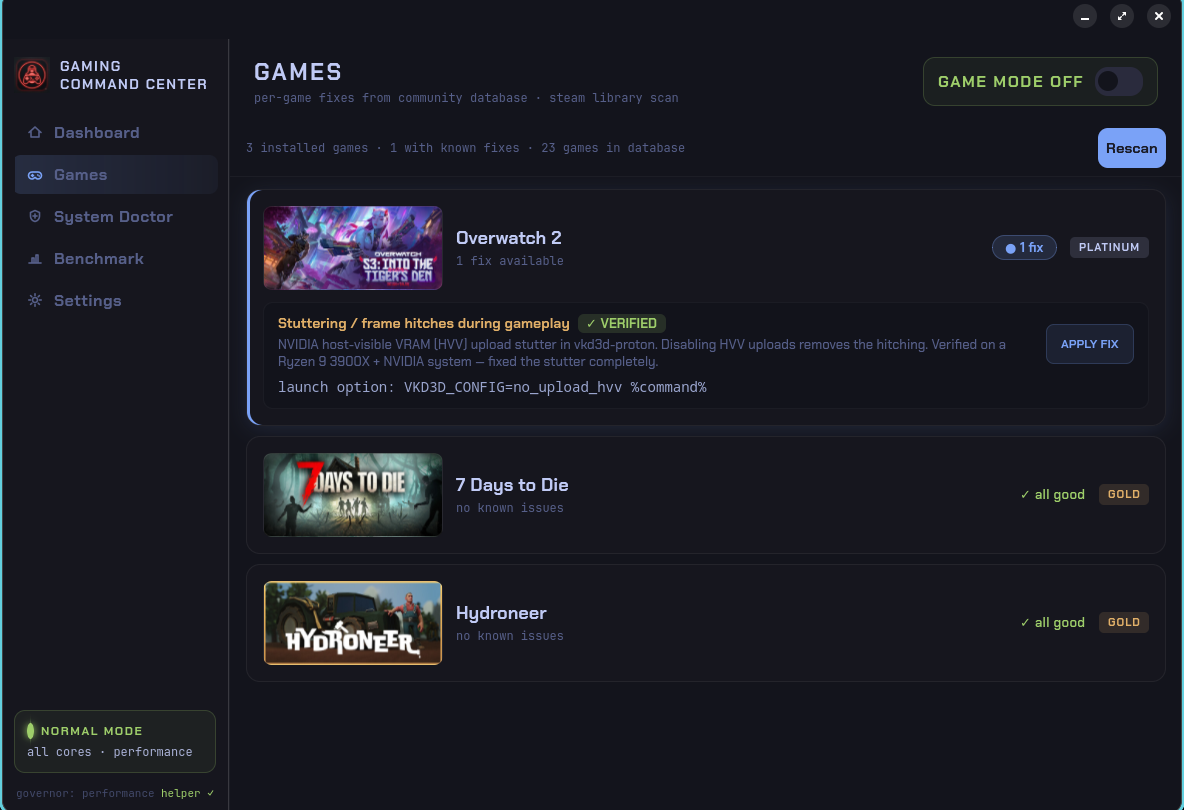
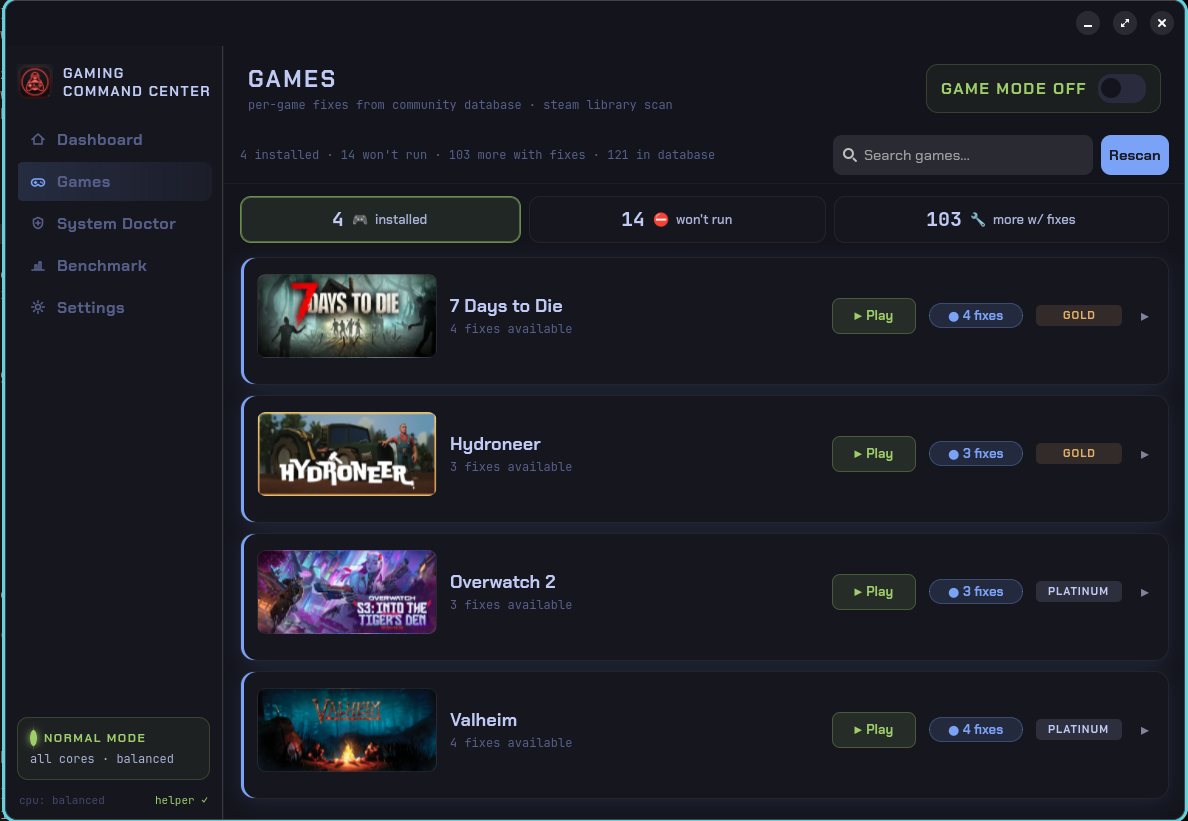
Marketing: tighten r/linux_gaming post + refresh games screenshot
Shorten the reddit draft to a scannable pitch, lead install with the AUR
(now live), fix the DB count to 121 (matches the updated Games screenshot),
and move GPU overclocking to the roadmap (not shipped in v0.1.5).

diff --git a/reddit-post.md b/reddit-post.md
@@ -1,85 +1,36 @@
 # Reddit r/linux_gaming Post Draft
 
+> Post as a text post. **Attach the 4 screenshots** (dashboard, system-doctor,
+> games, benchmark) from `assets/screenshots/`. Reply to early comments fast.
+
 ## Title (max 300 chars)
 
-Gaming Command Center — open-source Linux app for GPU overclocking, CPU optimization, one-click game fixes, and system diagnostics
+Gaming Command Center — an open-source app that scans & fixes common Linux gaming issues, applies per-game Proton fixes, and does Ryzen CCD "Game Mode". Now on the AUR.
+
+<!-- Alt, shorter:
+I made an open-source Linux gaming tuning app — system doctor, per-game Proton fixes, Ryzen CCD game mode. Now on the AUR. -->
 
 ## Body
 
-Hey everyone,
+Tired of hunting through ProtonDB, Reddit and GitHub issues for the right launch option / governor / fix every time you set up a game? I got tired of it too, so I built **Gaming Command Center** — one open-source GTK4 app that puts it in a single place.
 
-I've been gaming on Linux for a while now, and the one thing that always frustrated me was how much manual setup it takes — hunting through ProtonDB, Reddit threads, and GitHub issues to find the right launch option, governor setting, or gamescope flags for each game.
+**What it does (v0.1.5):**
 
-So I'm building **Gaming Command Center** — an open-source GTK4 app that brings it all together in one place:
+- 🩺 **System Doctor** — scans for 15+ common Linux gaming issues (governor, NVIDIA P-state, Coolbits, ReBAR, gamemode.ini, audio power save…) and fixes them in one click
+- 📋 **Game fix database** — 121 games in the database (most with documented Proton/Linux fixes); one click sets the launch option or writes the config. Grows by PR, like ProtonDB but "apply it for me". Safe by design: no arbitrary shell commands, ever.
+- 🎮 **Ryzen "Game Mode"** — benchmarks each CCD and parks the weaker one with one click, like Ryzen Master's Game Mode but on Linux
+- 📈 **Live GPU/CPU monitoring** on the dashboard
 
-### What it does
+Early and honest about it: NVIDIA + AMD Ryzen focused right now. GPU overclocking is the next big feature, not shipped yet.
 
-**🩺 System Doctor**
-- Scans your system for 15+ common Linux gaming issues
-- Shows what's wrong and offers one-click fixes
-- Covers: governor settings, NVIDIA P-state bug, Coolbits, ReBAR, gamemode.ini, audio power save, Wayland/X11 detection, and more
-- Works on NVIDIA and AMD GPUs, any CPU
-
-**📋 Game Fix Database**
-- Community-maintained YAML database of known Linux/Proton issues per game
-- One-click apply: sets Steam launch options, writes config files, or shows you what to do
-- 24 games seeded so far (Overwatch 2, Cyberpunk 2077, Elden Ring, BG3, Helldivers 2, Palworld, CS2, RDR2, and more)
-- Grows by pull request — like ProtonDB, but machine-readable and with "apply it for me"
-- Security: only 4 fix types allowed (info, launch_option, file, tool_action) — no arbitrary shell commands ever
-
-**⚡ GPU Overclocking (NVIDIA)**
-- Core/VRAM offset sliders via nvidia-settings (requires Coolbits)
-- PowerMizer mode control
-- Live monitoring: clock, power, temp, VRAM, P-state, utilization
-
-**🎮 CPU Optimization**
-- Detects CPU topology automatically (no hardcoded CPU numbers)
-- For AMD Ryzen with 2+ CCDs: benchmarks each CCD to find the better silicon (silicon lottery), then parks the weaker one with one click — like Ryzen Master's Game Mode, but on Linux
-- For single-CCD or Intel CPUs: Game Mode is hidden, rest of the app works normally
-- No password needed (polkit policy included)
-
-**📊 CCD Benchmark**
-- Tests each core individually with live progress
-- Shows which CCD has better sustained boost clocks
-- Marks the best CCD with a badge
-
-### Design
-- Dark "Tokyo Night" theme, built with GTK4 + libadwaita
-- Sidebar navigation: Dashboard, Games, System Doctor, Benchmark, Settings
-- Works on any Wayland desktop (COSMIC, GNOME, KDE, etc.)
-
-### Supported hardware & distros
-- **CPU**: Any CPU — full features on AMD Ryzen 2+ CCD, basic monitoring on others
-- **GPU**: NVIDIA (overclocking via nvidia-settings) — monitoring works on any GPU
-- **Distro**: Arch, CachyOS, Manjaro, Ubuntu, Debian, Fedora, Nobara (auto-detects package manager)
-- **Desktop**: Any Wayland or X11 desktop with GTK4
-
-### Install
-```bash
-git clone https://github.com/LordHayne/GCC.git
-cd GCC
-./install.sh
+**Install (Arch/CachyOS/Manjaro):**
 ```
-Then launch "Gaming Command Center" from your app menu.
+yay -S gaming-command-center
+```
+AppImage and source install on GitHub. Any Wayland/X11 desktop with GTK4.
 
-### Roadmap
-- AUR package
-- AMD GPU support (amdgpu sysfs for overclocking + monitoring)
-- Intel CPU support
-- System tray icon
-- Auto-setup wizard ("one click, everything optimized")
-- Rust + iced rewrite (native COSMIC look, single binary)
+🔗 GitHub: https://github.com/LordHayne/GCC · Site: https://lordhayne.github.io/ · GPL-3.0
 
-### Contributing
-The game fix database (games.yaml) grows with the community. Found a fix for a game? Add it to the YAML and open a PR — the app validates everything on load, so a bad entry can never execute arbitrary commands.
-
-GitHub: https://github.com/LordHayne/GCC
-
-License: GPL-3.0
-
-Feedback welcome! I'd especially love to hear:
-- What games should we add to the fix database next?
-- What system issues should the System Doctor check for?
-- Would you use this on your setup?
+It's v0.1.5 and I'm actively building it — I'd love feedback: what games/fixes should go in next, and would you actually use this on your setup?
 
 🐧🎮